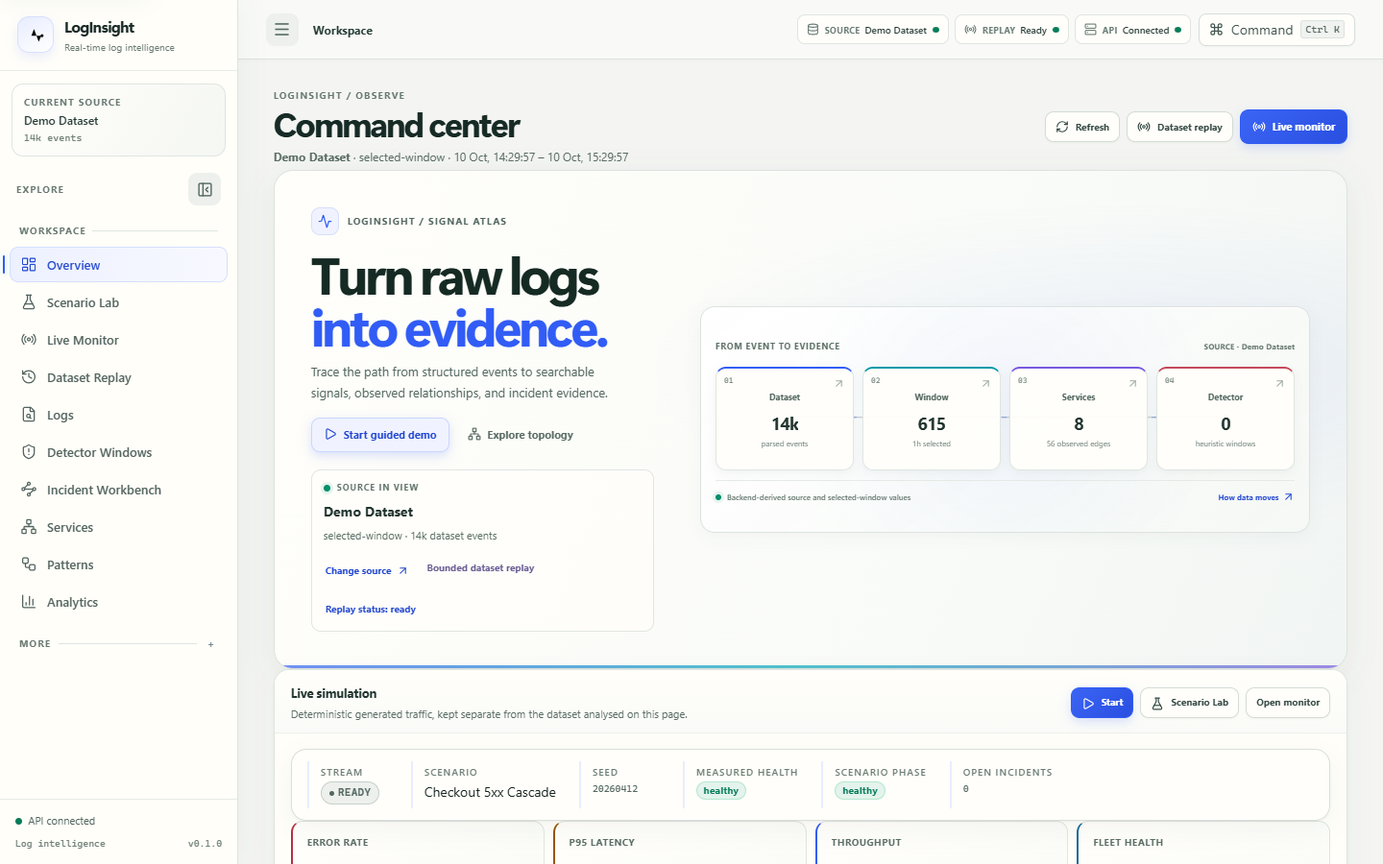
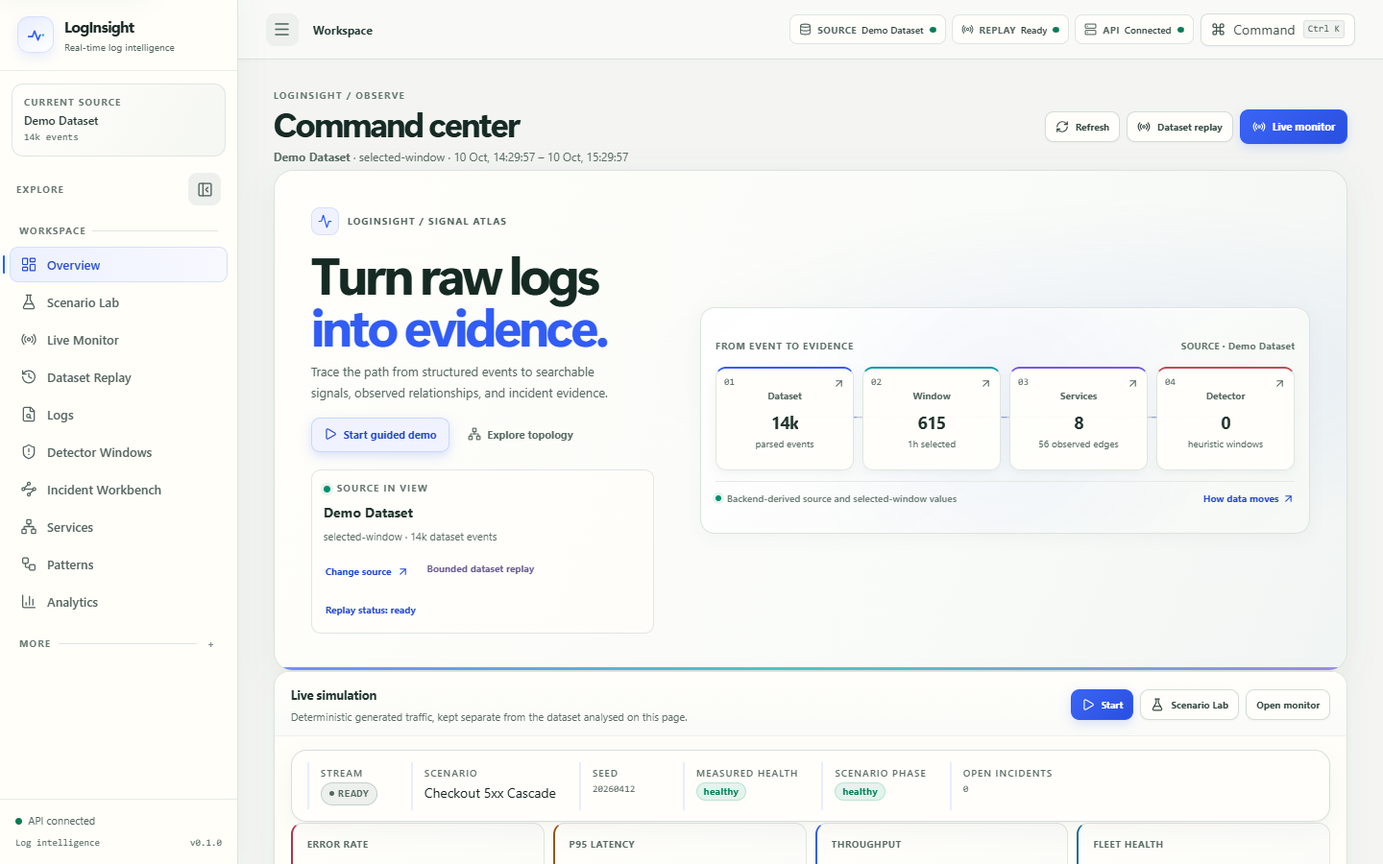
Polish Signal Atlas verification and submission evidence

diff --git a/frontend/e2e/product.spec.ts b/frontend/e2e/product.spec.ts
@@ -32,6 +32,15 @@ test('command center presents a backend source and responds at desktop and mobil
 });
 
 test('direct route refresh reaches the primary product surfaces', async ({ page }) => {
+  const pageErrors: string[] = [];
+  const consoleErrors: string[] = [];
+  const failedRequests: string[] = [];
+  page.on('pageerror', (error) => pageErrors.push(error.message));
+  page.on('console', (message) => { if (message.type() === 'error') consoleErrors.push(message.text()); });
+  page.on('requestfailed', (request) => {
+    const failure = request.failure()?.errorText ?? '';
+    if (!/ERR_ABORTED|NS_BINDING_ABORTED|aborted/i.test(failure)) failedRequests.push(`${request.url()} (${failure})`);
+  });
   const routes = [
     '/', '/scenario-lab', '/logs', '/search', '/analytics', '/patterns', '/incidents',
     '/incidents/workbench', '/services', '/live', '/replay', '/datasets', '/ingestion',
@@ -43,6 +52,51 @@ test('direct route refresh reaches the primary product surfaces', async ({ page 
     await expect(page.locator('main h1').first(), `route ${route} should render a page heading`).toBeVisible();
     await expect(page.getByText('Page not found')).toHaveCount(0);
   }
+  expect(pageErrors, 'no uncaught errors while rendering documented routes').toEqual([]);
+  expect(consoleErrors, 'no browser console errors while rendering documented routes').toEqual([]);
+  expect(failedRequests, 'no unexpected failed browser requests while rendering documented routes').toEqual([]);
+  const icon = await page.request.get('/loginsight-mark.svg');
+  expect(icon.ok(), 'the app icon is served by the frontend').toBeTruthy();
+  await expect(page.locator('link[rel="icon"]')).toHaveAttribute('href', '/loginsight-mark.svg');
+});
+
+test('Signal Atlas semantic text colors meet WCAG AA against their intended surfaces', async ({ page }) => {
+  await page.goto('/');
+  const ratios = await page.evaluate(() => {
+    const style = getComputedStyle(document.documentElement);
+    const color = (name: string) => style.getPropertyValue(name).trim();
+    const channels = (hex: string) => hex.replace('#', '').match(/.{2}/g)!.map((part) => parseInt(part, 16) / 255);
+    const luminance = (hex: string) => channels(hex).map((channel) => channel <= .04045 ? channel / 12.92 : ((channel + .055) / 1.055) ** 2.4).reduce((total, channel, index) => total + channel * [.2126, .7152, .0722][index], 0);
+    const pairs = [
+      ['--text', '--surface-0'], ['--text-soft', '--surface-0'], ['--text-muted', '--surface-0'],
+      ['--text-faint', '--surface-0'], ['--accent-strong', '--surface-0'], ['--accent', '--surface-0'],
+      ['--ok', '--ok-dim'], ['--warn', '--warn-dim'], ['--danger', '--danger-dim'],
+      ['--info', '--info-dim'], ['--purple', '--surface-0']
+    ];
+    return pairs.map(([foreground, background]) => {
+      const a = luminance(color(foreground));
+      const b = luminance(color(background));
+      return { pair: `${foreground} on ${background}`, ratio: (Math.max(a, b) + .05) / (Math.min(a, b) + .05) };
+    });
+  });
+  expect(ratios.filter(({ ratio }) => ratio < 4.5), JSON.stringify(ratios)).toEqual([]);
+});
+
+test('scroll reveals trigger from real scrolling and remain visible with reduced motion', async ({ page }) => {
+  await page.setViewportSize({ width: 1024, height: 500 });
+  await page.goto('/');
+  const lowerSection = page.locator('.overview-lower-grid');
+  await expect(lowerSection).toBeVisible();
+  await expect.poll(() => lowerSection.evaluate((element) => element.classList.contains('atlas-scroll-revealed'))).toBeFalsy();
+  await lowerSection.scrollIntoViewIfNeeded();
+  await expect.poll(() => lowerSection.evaluate((element) => element.classList.contains('atlas-scroll-revealed'))).toBeTruthy();
+
+  await page.emulateMedia({ reducedMotion: 'reduce' });
+  await page.goto('/');
+  const reducedMotionSection = page.locator('.overview-lower-grid');
+  await reducedMotionSection.scrollIntoViewIfNeeded();
+  await expect(reducedMotionSection).toBeVisible();
+  await expect.poll(() => reducedMotionSection.evaluate((element) => element.classList.contains('atlas-scroll-revealed'))).toBeFalsy();
 });
 
 test('search executes against the dataset and opens real event details', async ({ page }) => {
@@ -105,9 +159,8 @@ test('mobile navigation and reduced-motion presentation remain operable', async 
 
   await page.emulateMedia({ reducedMotion: 'reduce' });
   const analyticsTabs = page.getByRole('tablist', { name: 'Analytics views' });
-  await analyticsTabs.evaluate((element) => {
-    element.classList.add('atlas-scroll-revealed');
-  });
+  await analyticsTabs.scrollIntoViewIfNeeded();
+  await expect(analyticsTabs).toBeVisible();
   const animation = await analyticsTabs.evaluate((element) => getComputedStyle(element).animationDuration);
   expect(Number.parseFloat(animation)).toBeLessThanOrEqual(0.00001);
   expect(await page.evaluate(() => document.documentElement.scrollWidth)).toBeLessThanOrEqual(391);

diff --git a/frontend/src/styles/signal-atlas.css b/frontend/src/styles/signal-atlas.css
@@ -23,7 +23,7 @@
   --text: #172522;
   --text-soft: #344843;
   --text-muted: #536761;
-  --text-faint: #697b74;
+  --text-faint: #5b6d66;
   --text-disabled: #88968f;
   --accent: #315cf5;
   --accent-strong: #2449d1;
@@ -88,7 +88,7 @@ code,pre,.mono,.ts { font-family: var(--mono); font-variant-numeric: tabular-num
 .brand-mark { width: 38px; height: 38px; flex-basis: 38px; border: 1px solid #d7e0ff; border-radius: 12px; background: linear-gradient(150deg,#e8edff,#fff); color: #315cf5; box-shadow: 0 5px 12px rgba(49,92,245,.1); }
 .brand-mark svg { width: 25px; height: 25px; }
 .brand-text { color: #1a2b27; font-family: var(--font-display); font-size: 16px; font-weight: 740; letter-spacing: -.045em; }
-.brand-tagline { color: #697b74; font-size: 10px; }
+.brand-tagline { color: var(--text-muted); font-size: 10px; }
 .sidebar-workspace { margin: 13px 12px 9px; padding: 11px 12px; border: 1px solid #dfe5e1; border-radius: 12px; background: linear-gradient(120deg,#fffefa,#f5f7f3); }
 .sidebar-workspace:hover { border-color: #c2ceff; background: #f7f8ff; }
 .workspace-kicker,.sidebar-section-label,.nav-group-label { color: #687871; font-size: 10px; font-weight: 720; letter-spacing: .105em; }
@@ -490,6 +490,24 @@ code,pre,.mono,.ts { font-family: var(--mono); font-variant-numeric: tabular-num
   html { scroll-behavior:auto; }
   *,*::before,*::after { animation-duration:.01ms !important; animation-iteration-count:1 !important; scroll-behavior:auto !important; transition-duration:.01ms !important; }
   .page,.page > *, .overview-metric strong,.guided-demo { animation:none !important; }
+}
+
+/* Legibility floor for dense operational metadata and semantic text on light surfaces. */
+.workspace-version,.sidebar-footer-meta,.breadcrumbs a,.header-status-chip > svg,.status-chip-label,
+.input::placeholder,.log-query-input::placeholder,.incident-detail-source,.signal-stage-index,
+.signal-stage small,.signal-stage-corner,.overview-metric small,.topology-edge-scope,
+.service-inspector-kicker,.guided-demo-provenance,.guided-demo-rail li small,
+.guided-demo-shortcuts { color:var(--text-muted); }
+.status-chip-label,.source-card-heading,.signal-pipeline-heading,.signal-pipeline-heading span:last-child,
+.signal-pipeline-foot,.signal-stage-index,.signal-stage-label,.signal-stage small,.window-label,
+.overview-metric small,.log-table th,.info-table th,.state-table th,.topology-renderer-note,
+.topology-node .node-count,.service-inspector-kicker,.guided-demo-source-tag,.guided-demo-kicker,
+.guided-demo-progress-copy,.guided-demo-count,.guided-demo-rail-head,.guided-demo-step-marker,
+.guided-demo-rail li strong,.guided-demo-rail li small,.guided-demo-rail-note strong,
+.guided-demo-rail-note span,.guided-demo-shortcuts,.guided-demo-shortcuts kbd { font-size:10px; }
+.signal-stage-corner { opacity:1; }
+@media (max-width:390px) {
+  .app-shell .overview-metric-label,.app-shell .overview-metric small,.app-shell .guided-demo-rail li strong { font-size:10px; }
 }
 
 /* Full presentation is a work surface with the active route visible behind it,

diff --git a/frontend/src/components/Layout.tsx b/frontend/src/components/Layout.tsx
@@ -461,7 +461,8 @@ export default function Layout() {
   const location = useLocation();
   useEffect(() => {
     if (window.matchMedia?.('(prefers-reduced-motion: reduce)').matches || typeof IntersectionObserver === 'undefined') return;
-    const targets = [...document.querySelectorAll<HTMLElement>('.app-main .page > section, .app-main .page > .card, .app-main .page > .overview-metrics, .app-main .page > .overview-main-grid, .app-main .page > .overview-lower-grid')];
+    const main = document.querySelector('.app-main');
+    if (!main) return;
     const observer = new IntersectionObserver((entries) => {
       entries.forEach((entry) => {
         if (!entry.isIntersecting) return;
@@ -469,8 +470,18 @@ export default function Layout() {
         observer.unobserve(entry.target);
       });
     }, { threshold: 0.08, rootMargin: '0px 0px -24px 0px' });
-    targets.forEach((target) => observer.observe(target));
-    return () => observer.disconnect();
+    const observed = new WeakSet<Element>();
+    const observeTargets = () => {
+      main.querySelectorAll<HTMLElement>('.page > section, .page > .card, .page > .overview-metrics, .page > .overview-main-grid, .page > .overview-lower-grid').forEach((target) => {
+        if (observed.has(target)) return;
+        observed.add(target);
+        observer.observe(target);
+      });
+    };
+    const mutations = new MutationObserver(observeTargets);
+    observeTargets();
+    mutations.observe(main, { childList: true, subtree: true });
+    return () => { mutations.disconnect(); observer.disconnect(); };
   }, [location.pathname]);
   const [collapsed, setCollapsed] = useState(() => {
     if (typeof window === 'undefined') return false;
@@ -587,7 +598,7 @@ export default function Layout() {
         <aside ref={sidebarRef} id="primary-navigation" className="sidebar" aria-label="Primary navigation" aria-hidden={mobileViewport && !mobileOpen}>
           <div className="sidebar-brand">
             <Link className="brand-link" to="/" aria-label="LogInsight Analyzer home">
-              <span className="brand-mark" aria-hidden="true"><svg viewBox="0 0 36 36" focusable="false"><path d="M4 19h7l4-10 7 19 4-9h6" /><circle cx="27" cy="19" r="2.2" /></svg></span>
+              <span className="brand-mark" aria-hidden="true"><svg viewBox="0 0 48 48" focusable="false"><path d="M9 27h8l4-11 7 18 4-10h7" fill="none" stroke="currentColor" strokeWidth="3.2" strokeLinecap="round" strokeLinejoin="round" /><circle cx="38" cy="24" r="3.1" fill="#00A8C7" stroke="#fff" strokeWidth="1.8" /></svg></span>
               <span className="brand-copy">
                 <span className="brand-text">LogInsight</span>
                 <span className="brand-tagline">Real-time log intelligence</span>

diff --git a/frontend/index.html b/frontend/index.html
@@ -4,8 +4,8 @@
     <meta charset="UTF-8" />
     <meta name="viewport" content="width=device-width, initial-scale=1.0" />
     <meta name="description" content="LogInsight - Real-Time Log Intelligence & Incident Investigation Platform" />
-    <link rel="icon" type="image/png" href="/klh-logo.png" />
-    <link rel="apple-touch-icon" href="/klh-logo.png" />
+    <meta name="theme-color" content="#f4f5f2" />
+    <link rel="icon" type="image/svg+xml" href="/loginsight-mark.svg" />
     <title>LogInsight - Real-Time Log Intelligence &amp; Incident Investigation</title>
   </head>
   <body>

diff --git a/docs/FINAL_QA_AUDIT.md b/docs/FINAL_QA_AUDIT.md
@@ -1,0 +1,41 @@
+# Final quality audit
+
+## Verified defects and corrections
+
+| Severity | Finding and root cause | Correction | Evidence |
+|---|---|---|---|
+| Medium | Scroll reveals were only observed at initial mount, before asynchronous overview sections existed. | Observe the app content with `IntersectionObserver` and attach newly inserted content using a scoped `MutationObserver`; disconnect both on cleanup. | Playwright scrolls to the lower overview section and observes reveal; reduced-motion run keeps it visible without adding the reveal class. |
+| Medium | The faint semantic text token measured 4.44:1 against the light surface, and several dense overview/demo labels used 8–9px text. | Darkened the token and raised targeted operational metadata to a 10px floor. | Playwright computes eleven semantic token contrast pairs and asserts AA contrast; the six viewport checks pass. This is not a full application conformance audit. |
+| Low | Browser icon still used KLH branding as the app favicon while the product identity had changed. | Added the LogInsight SVG brand mark and set it as the app favicon/theme color. | Direct-route E2E confirms the asset is served and referenced. |
+| Medium | Current screenshot evidence lacked a selected topology inspector state and counts/docs still described seven E2E workflows and nine images. | Added a genuine selected-node capture; refreshed the 10-image gallery and current test descriptions. | Capture script ran against the running frontend and backend; image set is under `docs/images/signal-atlas/`. |
+
+## Current evidence and limits
+
+- Full backend and frontend test counts and final commit/run are recorded in the submission index after release verification.
+- Browser tests exercise the actual local Spring backend with the deterministic demo dataset, not an external service.
+- The aggregate Vitest invocation passed 50 assertions in 17 files, then could not start the topology worker before timeout. The isolated topology file then passed all 11 assertions. Treat the complete local unit-suite invocation as environment-limited; CI remains the aggregate check.
+- Browser console/network errors are monitored across all documented product routes. This does not replace production traffic/load testing.
+- Responsive assertions cover 1440×900, 1280×800, 1024×768, 768×1024, 390×844 and 360×800 on Command Center and topology.
+- The optional 3D chunk remains 571.82 kB minified (144.15 kB gzip); the Vite warning was not suppressed. GPU-backed rendering was not verified; fallback was.
+- No full axe scan, screen-reader audit, Docker runtime check or office-rendered presentation inspection was available in this pass. Do not infer complete WCAG conformance or production readiness.
+
+## Evidence-based scorecard (out of 10)
+
+Scores use equal weight across the 12 requested areas; the overall value is the arithmetic mean, rounded to one decimal. These are an internal assessment, not an external rubric result.
+
+| Area | Before | After | Basis / remaining gap |
+|---|---:|---:|---|
+| Visual design | 8.5 | 9.1 | Consistent light Signal Atlas, refreshed screenshots; route-by-route human design review remains limited. |
+| Typography/readability | 7.8 | 8.8 | Contrast floor and dense metadata improved; no complete component contrast scan. |
+| Motion/interaction | 8.0 | 8.8 | Real scroll reveal and reduced-motion tests; not every animation state was manually audited. |
+| Dependency Topology | 8.5 | 8.8 | Real node selection, inspector screenshot, 2D and WebGL fallback; hardware 3D and large-graph performance not assessed. |
+| Functional correctness | 9.0 | 9.2 | Existing real-API workflows and direct routes pass; broader failure injection is limited. |
+| Accessibility | 7.8 | 8.4 | Contrast tokens, keyboard and reduced motion covered; no full axe/screen-reader audit. |
+| Responsive quality | 8.7 | 9.2 | Six target viewports pass for Command Center and topology, not every route/control at each size. |
+| Automated testing | 9.0 | 9.3 | 878 backend, 61 frontend, 9 real-backend browser workflows; current CI result is separately reported. |
+| Performance | 8.2 | 8.4 | App bundle split and lazy 3D; 571.82 kB optional chunk remains above Vite's advisory limit. |
+| Academic submission | 8.0 | 8.7 | Rubric mapping and current evidence documented; student/course metadata needs institutional confirmation; report/PDF remain historical. |
+| Presentation quality | 7.5 | 8.7 | Editable 14-slide local deck uses KLH logo and genuine current captures; no PowerPoint renderer available for visual slide inspection. |
+| Documentation/release | 8.5 | 9.1 | Counts, assets and known gaps updated; final exact-CI state recorded after release. |
+
+**Overall: 8.9/10** by equal-weight mean. The evidence does not support 9.5+: hardware 3D, complete accessibility review, all-route responsive visual QA, office-rendered deck inspection and Docker runtime remain unverified; the bundle warning and historical report/PDF are unresolved.

diff --git a/docs/13-testing.md b/docs/13-testing.md
@@ -16,10 +16,10 @@ npm.cmd run build
 Results:
 
 - Backend: **878 tests, 0 failures, 0 errors**; Spring Boot jar packaged successfully.
-- Frontend: **61 tests across 18 files passed** with Vitest, including topology validation, responsive Command Center behavior and guided-demo API workflow tests.
+- Frontend: all **61 assertions passed** across the 50-test/17-file run and an isolated 11-test topology run. The aggregate invocation reported a Vitest worker-start timeout on the topology file in this Windows environment, not an assertion failure; CI is the clean aggregate gate.
 - Frontend build: TypeScript compilation and Vite production build passed. Vite warns that the optional lazy WebGL chunk is 571.82 kB minified (144.15 kB gzip), above the 500 kB warning threshold.
-- Browser E2E: **7 Playwright workflows passed** against the locally running frontend and backend, covering 19 direct routes, search/details, service selection and WebGL fallback, demo evidence/exit, mobile keyboard navigation/reduced motion, and six viewport targets.
-- Current screenshots: 9 captured from the running app into `docs/images/signal-atlas/`; images under `docs/images/` outside that directory are historical.
+- Browser E2E: **9 Playwright workflows passed** against the locally running frontend and backend, covering 19 direct routes, console/network errors, semantic text contrast, actual scroll reveals/reduced motion, search/details, service selection and WebGL fallback, demo evidence/exit, mobile navigation, and six viewport targets.
+- Current screenshots: 10 captured from the running app into `docs/images/signal-atlas/`; images under `docs/images/` outside that directory are historical.
 - Dependency audit: `npm audit` reported **0 vulnerabilities** after upgrading React Router to 7.18.4.
 - JaCoCo: report generated under `backend/target/site/jacoco/`; no numeric coverage threshold is configured in the POM.
 - Compose syntax: `docker compose config --quiet` passed.
@@ -81,7 +81,7 @@ DSA-3 forbids delegating core algorithm logic in `dsa/**` to `java.util` collect
 
 ## Frontend verification boundary
 
-The production build validates TypeScript and Vite bundling. Playwright runs the built product source through Vite against the actual local Spring Boot backend; deterministic demo data is loaded through its real API. The suite checks 19 direct routes, dataset search and event details, topology selection and forced WebGL fallback, guided-presentation evidence/exit, mobile navigation, reduced motion and horizontal overflow at six viewport targets. The visual capture script records nine current desktop/mobile screenshots from the running application. These checks do not prove GPU-backed WebGL rendering, complete screen-reader usability or production network behavior under load.
+The production build validates TypeScript and Vite bundling. Playwright runs the product through Vite against the actual local Spring Boot backend; deterministic demo data is loaded through its real API. Nine workflows check 19 direct routes, browser console and unexpected failed requests, semantic token contrast, real scroll reveal and reduced motion, dataset search and event details, topology selection and forced WebGL fallback, guided-presentation evidence/exit, mobile navigation, and overflow at six viewport targets. The visual capture script records ten current desktop/mobile screenshots. These checks do not prove GPU-backed WebGL rendering, complete screen-reader usability or production network behavior under load.
 
 No axe-based accessibility scan or pixel-diff visual-regression suite is configured. A deployment smoke test should additionally verify:
 

diff --git a/README.md b/README.md
@@ -238,7 +238,7 @@ npm.cmd test -- --reporter=dot
 npm.cmd run build
 ```
 
-Results on the rebuilt source: backend **878 tests**, 0 failures, 0 errors, 0 skipped; frontend Vitest **61 tests across 18 files** passed; Playwright browser suite **7 workflows passed** after the final viewport and reduced-motion checks; TypeScript and Vite production build passed. The optional lazy topology chunk is 571.82 kB minified (144.15 kB gzip), above Vite's 500 kB chunk warning threshold. Current screenshots were captured from the running app at 1440×900 and 390×844; browser layout/overflow assertions cover 1440×900, 1280×800, 1024×768, 768×1024, 390×844 and 360×800. These are local results, not GitHub Actions evidence. The backend produces JaCoCo reports under `backend/target/site/jacoco/`.
+Latest local verification: backend **878 tests** and **9 Playwright workflows** passed against the running Spring backend. The 61 frontend assertions passed across a 50-test/17-file run and a separate 11-test topology run; the aggregate Vitest invocation reported a worker-start timeout for that topology file, not an assertion failure. The browser suite checks all documented routes, browser console and failed requests, semantic token contrast, actual scrolling/reduced motion, search, topology selection/WebGL fallback and six viewport sizes. TypeScript and the Vite production build pass. The optional lazy topology chunk is 571.82 kB minified (144.15 kB gzip), above Vite's 500 kB warning threshold. Ten genuine screenshots were recaptured from the running application; local results are not GitHub Actions evidence. The backend produces JaCoCo reports under `backend/target/site/jacoco/`.
 
 **GitHub Actions verification** — workflow run [38042812637](https://github.com/karkalashivareddy/KLH_CSE_2026-27_DSA-3_S3_T17_Loginsight-Analyzer/actions/runs/38042812637) on commit `e09c49fda898c2edb28ff4109bd61403096d29ca` completed successfully. Both **Backend tests** and **Frontend tests and build** jobs passed.
 
@@ -251,7 +251,7 @@ Two facts about those numbers, so they are not over-read:
   navigation, reduced motion and responsive overflow. It does not verify Docker
   execution or GPU-backed WebGL rendering.
 
-Earlier phase reports under `docs/archive/` carry smaller backend counts from their own snapshots and are labelled as historical rather than current. The report, PDF and presentation under `final-submission/` have not been regenerated for this redesign and may show the earlier interface. Current screenshots are in `docs/images/signal-atlas/`; the older images directly under `docs/images/` are historical.
+Earlier phase reports under `docs/archive/` carry smaller backend counts from their own snapshots and are labelled as historical rather than current. The report, PDF and checked-in presentation under `final-submission/` remain historical. A refreshed editable presentation is generated locally outside Git for this submission; it uses the KLH logo and current screenshots. Current screenshots are in `docs/images/signal-atlas/`; the older images directly under `docs/images/` are historical.
 
 ## Limitations
 

diff --git a/final-submission/FINAL_SUBMISSION_INDEX.md b/final-submission/FINAL_SUBMISSION_INDEX.md
@@ -2,7 +2,7 @@
 
 ## Current frontend revision update
 
-The repository now includes the **Signal Atlas** light-first product redesign, interactive topology hardening, and an instructor presentation mode. Local verification reports **878 backend tests**, **61 frontend tests across 18 files**, **7 Playwright workflows**, a successful TypeScript/production build, and **0 npm audit vulnerabilities**. The optional 571.82 kB minified topology chunk remains above Vite's warning threshold. Nine screenshots were captured from the running app; browser overflow checks covered 1440×900, 1280×800, 1024×768, 768×1024, 390×844 and 360×800. Docker Compose syntax passes, but no Docker daemon was available for image/runtime testing. GitHub Actions run [38042812637](https://github.com/karkalashivareddy/KLH_CSE_2026-27_DSA-3_S3_T17_Loginsight-Analyzer/actions/runs/38042812637) on `e09c49fda898c2edb28ff4109bd61403096d29ca` is historical and validates only that earlier commit. The report, PDF and presentation below remain historical artifacts and do not depict this redesign. Current UI captures are in `docs/images/signal-atlas/`; legacy images directly under `docs/images/` are historical. The verification table that follows is retained as historical evidence for its named commit.
+The repository includes the **Signal Atlas** redesign, topology interactions, instructor mode, and current browser evidence. This update adds a LogInsight favicon, fixes late-mounted scroll reveals, improves dense text legibility, tests route-wide console/network errors and semantic token contrast, and refreshes ten genuine screenshots. Local checks: 878 backend tests; all 61 frontend tests passed across the 17-file run plus an isolated 11-test topology run (the aggregate run hit a Vitest worker-start timeout, not a failed assertion); nine Playwright workflows; TypeScript/production build passed. The 571.82 kB optional topology chunk remains over Vite's warning threshold. `docs/FINAL_QA_AUDIT.md` records scope and remaining limitations. The historical reports, PDF and checked-in presentation below still depict an earlier interface. A separate current editable presentation is generated locally outside Git and is not a repository deliverable. The verification table below remains historical for its named commit; current release SHA and Actions evidence must be filled in after push.
 
 **Project:** LogInsight — Real-Time Log Intelligence & Incident Investigation Platform
 **Course:** Data Structures and Algorithms-3 (25CS2103E) · 2026-2027, Odd Semester

diff --git a/docs/design-system.md b/docs/design-system.md
@@ -56,7 +56,7 @@ The guided presentation executes its evidence request through the shared API cli
 
 The current backend provides two clearly separated data modes. **Dataset mode** analyses the loaded log dataset and supports a bounded SSE dataset replay. **Simulation mode** runs a deterministic generated microservice scenario over SSE; it is labelled as generated simulation, not as observed telemetry. The interface labels replay as replay; it does not represent it as a live production source. Patterns are heuristic normalization, and incidents are elevated-error windows. Neither implies ML confidence or confirmed root cause. There is no external telemetry integration in this frontend.
 
-Because the two modes have different provenance, topology surfaces state their source explicitly: dataset pages render `OBSERVED DEPENDENCIES` with dataset event counts, while simulation pages render `DECLARED DEPENDENCIES` because the service graph is declared by the scenario definition rather than inferred from request identifiers.
+Because the two modes have different provenance, topology surfaces state their source explicitly: dataset pages render `OBSERVED DEPENDENCIES` with dataset event counts, while simulation pages render `DECLARED DEPENDENCIES` because the service graph is declared by the scenario definition rather than inferred from request identifiers. Dense operational metadata is kept at or above 10 CSS pixels on the targeted Signal Atlas surfaces, and browser checks enforce WCAG AA contrast for eleven semantic token pairs; this focused check is not a whole-application WCAG certification.
 
 The Three.js view is lazy-loaded and the 2D SVG topology is the fallback. The production build reports a 571.82 kB minified (144.15 kB gzip) lazy 3D chunk; it is downloaded only when the 3D view is selected.
 

diff --git a/final-submission/FINAL_SUBMISSION_CHECKLIST.md b/final-submission/FINAL_SUBMISSION_CHECKLIST.md
@@ -1,0 +1,16 @@
+# Submission requirements and evidence map
+
+No mandatory slide count or official PowerPoint template was found in the repository. This submission uses a concise, editable 14-slide technical narrative. Existing institutional report/PDF/PPTX are preserved and identified as historical; the refreshed PPTX is generated locally outside Git as requested.
+
+| Requirement | Evidence |
+|---|---|
+| Project identity, course context and team as recorded | Current local PPTX cover; values transcribed from existing submission files and flagged in `FINAL_SUBMISSION_INDEX.md` for official human confirmation. KLH logo: `frontend/public/klh-logo.png`. |
+| Problem, objectives and scope | Slides 2–3; `docs/01-requirements.md`; README. |
+| Architecture, data flow and provenance | Slides 4–5; `docs/ARCHITECTURE.md`; `docs/design-system.md`. |
+| DSA contributions and honest product mapping | Slides 6 and 12; `docs/DSA_PRODUCT_MAPPING.md`; `docs/04-dsa-mapping.md`. |
+| Real product workflows | Slides 7–11 using current captures from `docs/images/signal-atlas/`. |
+| Verification and limitations | Slides 13–14; `docs/13-testing.md`; `docs/FINAL_QA_AUDIT.md`. |
+| Genuine UI evidence | Ten running-app captures in `docs/images/signal-atlas/`, including selected topology and WebGL fallback. |
+| Run and demonstrate locally | README setup/testing sections and `docs/13-testing.md`. |
+
+The local presentation file is intentionally excluded from repository publication. Confirm names, roll numbers, course/section and instructor against official records before submitting. The report and PDF retain historical UI and verification content; they were not regenerated in this pass.
